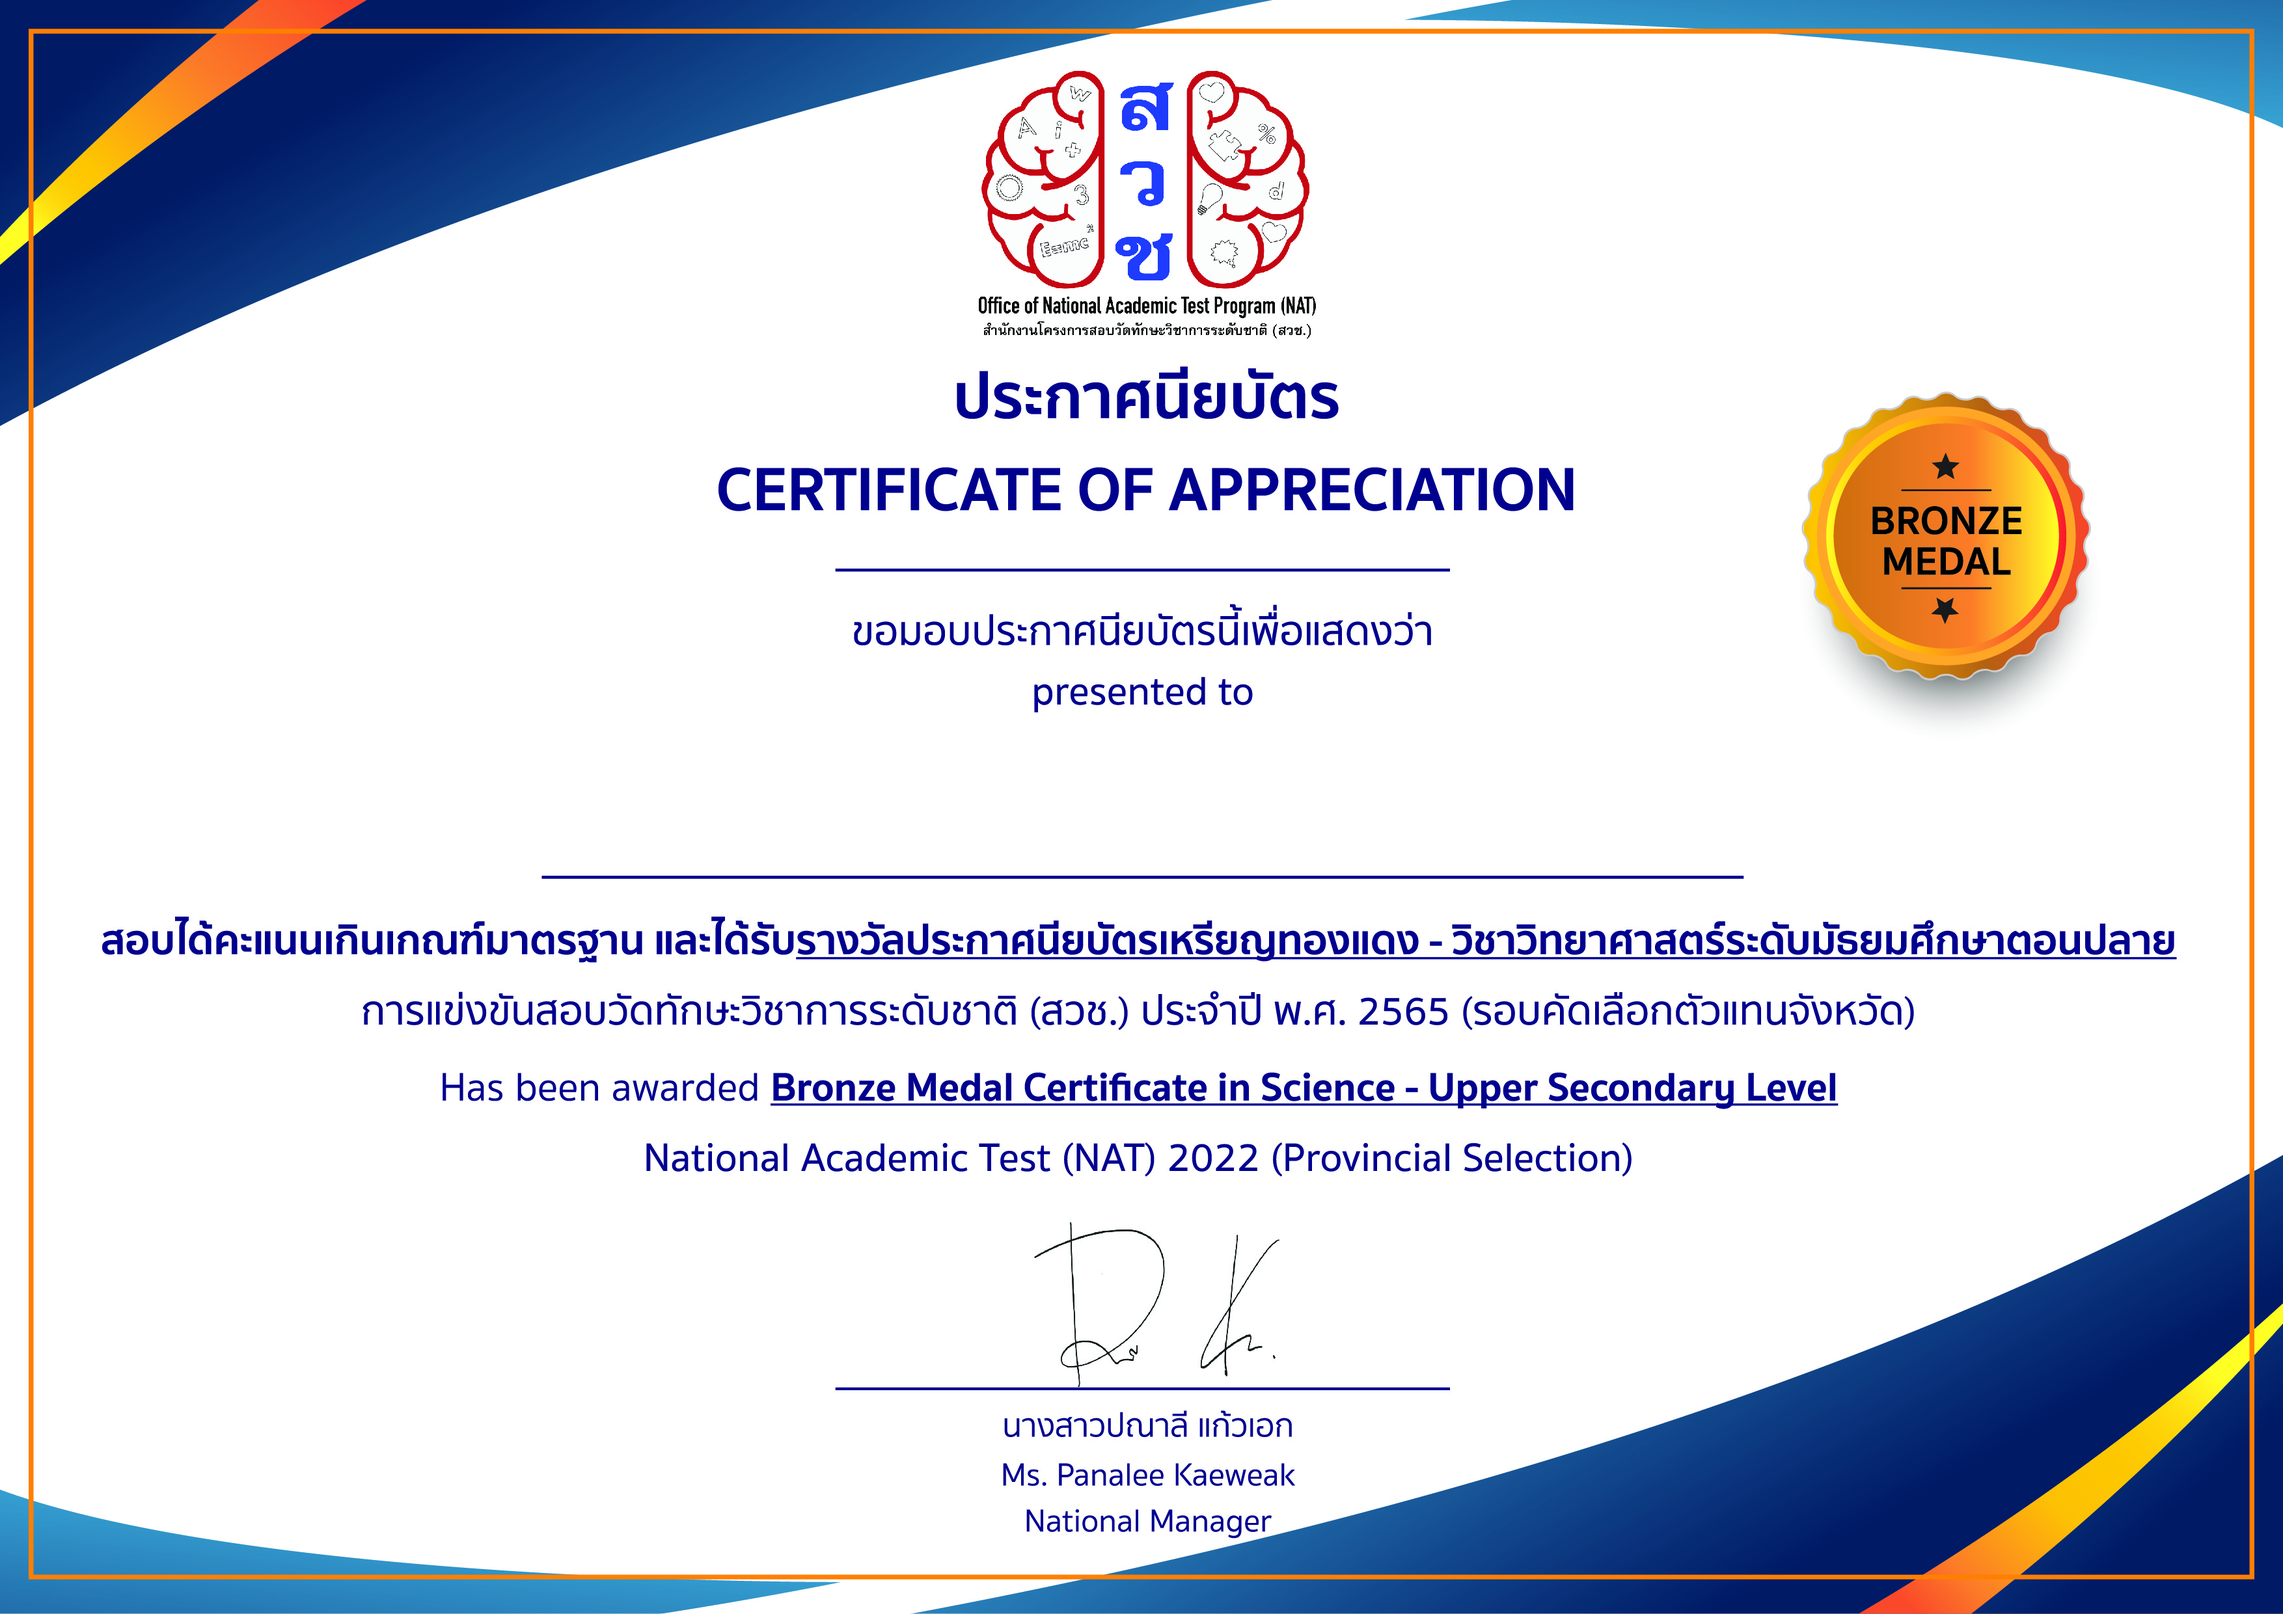
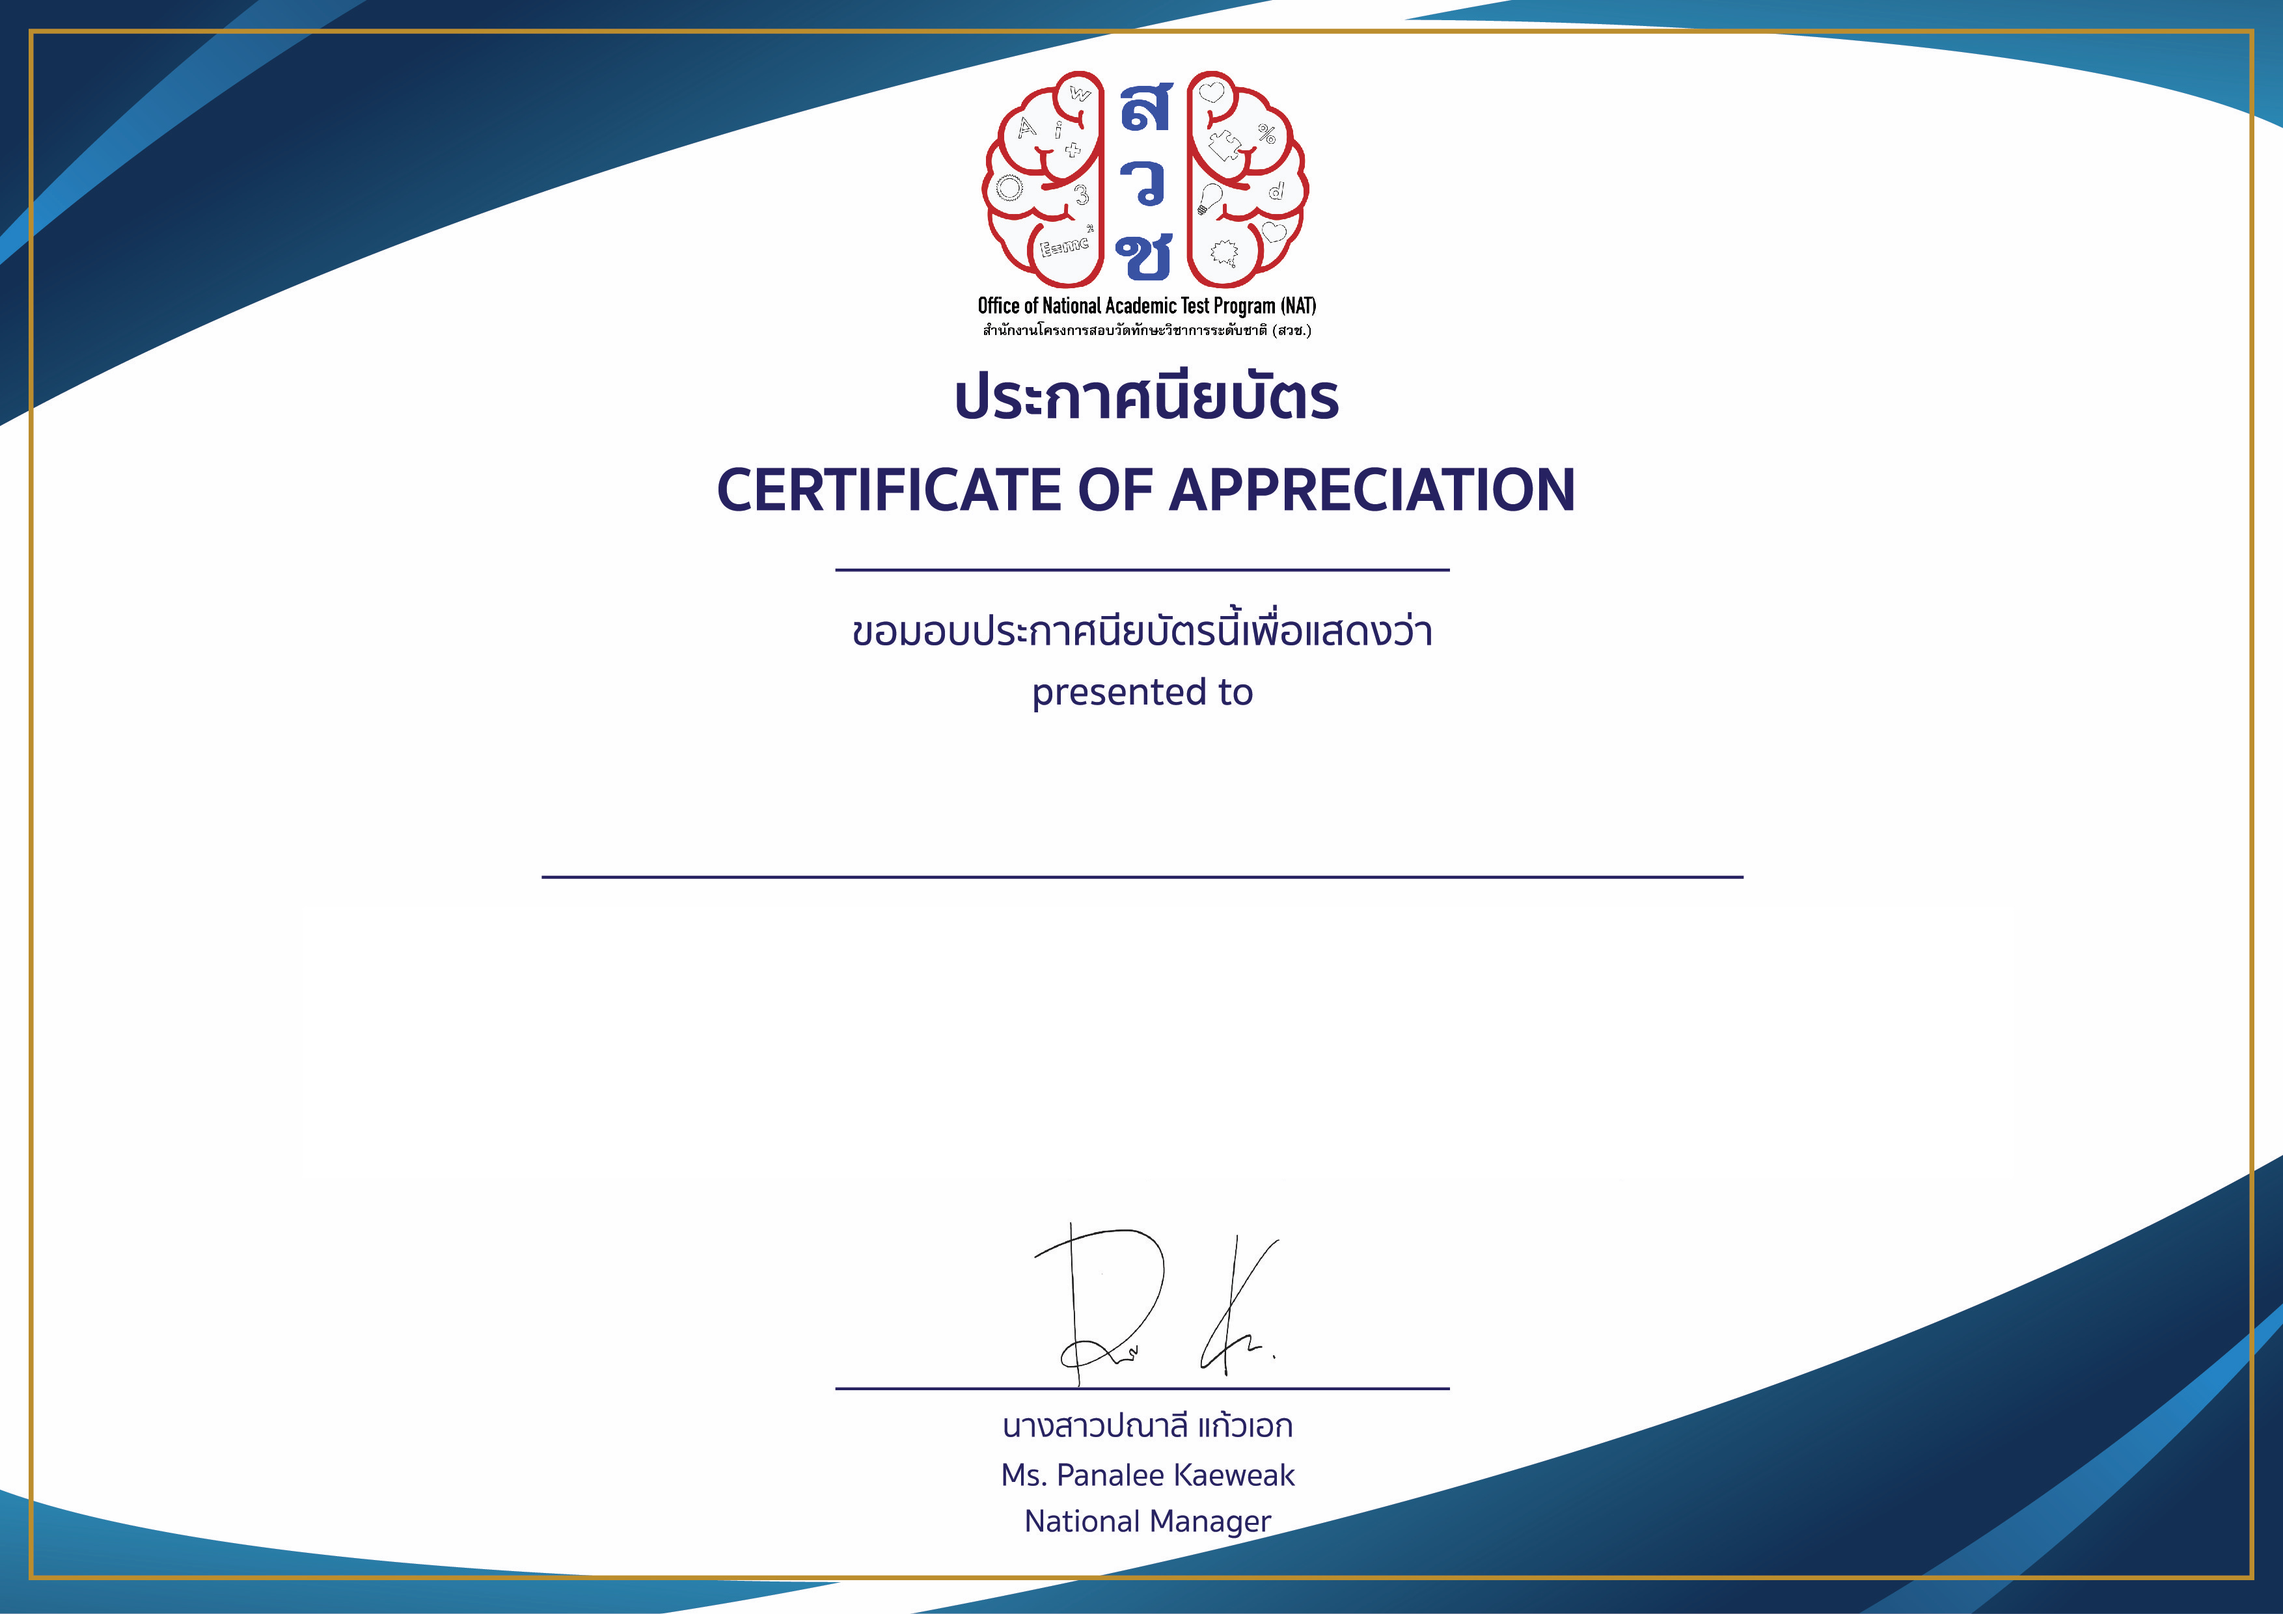
🔥 - select Level

diff --git a/pages/index.tsx b/pages/index.tsx
@@ -1,6 +1,9 @@
 import Head from "next/head";
 import Image from "next/image";
 import certificate from "../public/Certificate.jpg";
+import certificateBronze from "../public/Certificate-Bronze.jpg";
+import certificateSilver from "../public/Certificate-Silver.jpg";
+import certificateGold from "../public/Certificate-Gold.jpg";
 import { useState } from "react";
 import styles from "../styles/Home.module.css";
 import { PDFDocument, rgb, cmyk } from "pdf-lib";
@@ -9,6 +12,7 @@ import fontkit from "@pdf-lib/fontkit";
 export default function Home() {
   const [name, setName] = useState("");
   const [fontSize, setFontsize] = useState("");
+  const [level, setLevel] = useState("1");
 
   return (
     <div className={styles.container}>
@@ -37,6 +41,12 @@ export default function Home() {
             value={fontSize}
             onChange={(e) => setFontsize(e.target.value)}
           />
+          <select value={level} onChange={(e) => setLevel(e.target.value)}>
+            <option value="1">Normal</option>
+            <option value="2">Bronze</option>
+            <option value="3">Silver</option>
+            <option value="4">Gold</option>
+          </select>
         </>
         <button
           onClick={async () => {
@@ -50,12 +60,50 @@ export default function Home() {
               "https://cdn.jsdelivr.net/npm/@fontsource/noto-sans-thai@4.5.12/files/noto-sans-thai-all-400-normal.woff"
             ).then((res) => res.arrayBuffer());
 
-            const jpgImageBytes = await fetch(
-              certificate.src // path to your image
-            ).then((res) => {
-              console.log("jpgImageBytes", certificate.src);
-              return res.arrayBuffer();
-            });
+            // const jpgImageBytes = await fetch(
+            //   certificate.src // path to your image
+            // ).then((res) => {
+            //   console.log("jpgImageBytes", certificate.src);
+            //   return res.arrayBuffer();
+            // });
+            let jpgImageBytes;
+            switch (level) {
+              case "2":
+                jpgImageBytes = await fetch(
+                  certificateBronze.src // path to your image
+                ).then((res) => {
+                  console.log("jpgImageBytes", certificate.src);
+                  return res.arrayBuffer();
+                });
+                break;
+              case "3":
+                jpgImageBytes = await fetch(
+                  certificateSilver.src // path to your image
+                ).then((res) => {
+                  console.log("jpgImageBytes", certificate.src);
+                  return res.arrayBuffer();
+                });
+
+                break;
+              case "4":
+                jpgImageBytes = await fetch(
+                  certificateGold.src // path to your image
+                ).then((res) => {
+                  console.log("jpgImageBytes", certificate.src);
+                  return res.arrayBuffer();
+                });
+
+                break;
+
+              default:
+                jpgImageBytes = await fetch(
+                  certificate.src // path to your image
+                ).then((res) => {
+                  console.log("jpgImageBytes", certificate.src);
+                  return res.arrayBuffer();
+                });
+                break;
+            }
 
             pdfDoc.registerFontkit(fontkit);
             const customFont = await pdfDoc.embedFont(fontBytes);
@@ -74,7 +122,8 @@ export default function Home() {
             let some = name.split(" ");
             page.drawText(name, {
               x:
-                page.getWidth() / 2 - some[0].length * (parseInt(fontSize) / 2.2),
+                page.getWidth() / 2 -
+                (name.length / 2) * (parseInt(fontSize) / 2.2),
               y: page.getHeight() / 2 - parseInt(fontSize) / 1.5,
               size: parseInt(fontSize),
               font: customFont,
